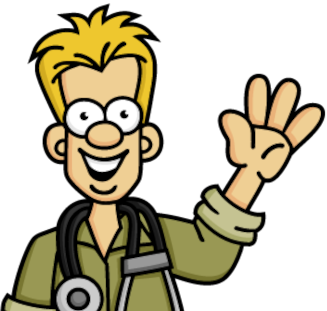
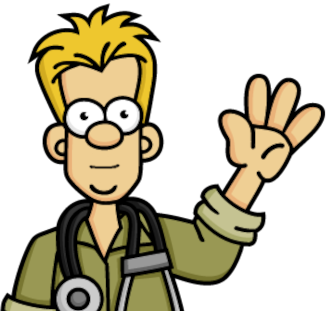
polish on animation

Changed region(s): [[0.2141, 0.463, 0.3976, 0.6077]]

diff --git a/source/buddy.py b/source/buddy.py
@@ -38,11 +38,11 @@ model_kwargs =  {
     "top_p": 1,
     "stop_sequences": ["\n\nHuman"],
 }
-# llm = BedrockLLM(model_id=modelID, model_kwargs={"max_tokens_to_sample": 2000,"temperature":0.9})
+
 llm = ChatBedrock(client=bedrock, model_id=modelID, model_kwargs=model_kwargs)
 bedrock_config = {
   'kb_id': 'ISZGKBFX00',
-  'numberOfResults': '1',
+  'numberOfResults': '6',
   'personality': 'A friendly and excited camp director',
 }
 
@@ -132,6 +132,7 @@ toon_media = {
     "o": {"name": "./media/toon_o.png"},
     "O": {"name": "./media/toon_u.png"},
     "sil": {"name": "./media/toon_sil.png"},
+    "default": {"name": "./media/toon_default.png"},
 }
 
 def chatbot(personality, language, freeform_text):
@@ -226,20 +227,18 @@ def animate(viseme, images):
         face.image(images[viseme['value']]['name'], use_column_width=True)
         # print(f"Viseme: {viseme['value']}, Duration: {t}")
         
-    face.image(images['sil']['name'], use_column_width=True)
+    face.image(images['default']['name'], use_column_width=True)
 
 if __name__ == "__main__":
   st.title("Buddy Chatbot")
-  mute = st.sidebar.checkbox("Mute", value=True) # TODO: Change back to True
-  # showContext = st.sidebar.checkbox("Show Context", value=False)
+  mute = st.sidebar.checkbox("Mute", value=True)
   if mute:
-    bringAlive = st.sidebar.checkbox("Bring Buddy Alive", value=False, disabled=True) # TODO: change value back to False
+    bringAlive = st.sidebar.checkbox("Bring Buddy Alive", value=False)
   else:
-    bringAlive = st.sidebar.checkbox("Bring Buddy Alive", value=False) # TODO: change value back to False
+    bringAlive = st.sidebar.checkbox("Bring Buddy Alive", value=True)
   language = st.sidebar.selectbox("Language", polly_lang_codes.keys(), index=13)
   face = st.sidebar.empty()
-  face.image(toon_media['sil']['name'], use_column_width=True)
-#   face.image('./media/lips_sil.png', use_column_width=True)
+  face.image(toon_media['default']['name'], use_column_width=True)
 
   if language:
     freeform_text = st.sidebar.text_area(label="what is your question?",
@@ -255,5 +254,5 @@ if __name__ == "__main__":
         visemes = get_visemes(response, language)
         speak(response, language)
         if bringAlive:
-            face.image(toon_media['sil']['name'], use_column_width=True) # TODO: Change to toon
+            face.image(toon_media['default']['name'], use_column_width=True)
             animate(visemes, toon_media)

diff --git a/README.md b/README.md
@@ -5,7 +5,10 @@ DocNetwork Hackathon project 2024
 TODO Items:
 - [X] Integrate KB
 - [X] Specify language to polly.
-- [ ] Toon images instead of lips
+- [X] Toon images instead of lips
+- [ ] Push to github and share code with Charles
+- [ ] Get Audio working from K8s
+- [ ] Speech to text
+
 - [ ] Cleanup commented code
 - [ ] Write the README
-- Speech to text
